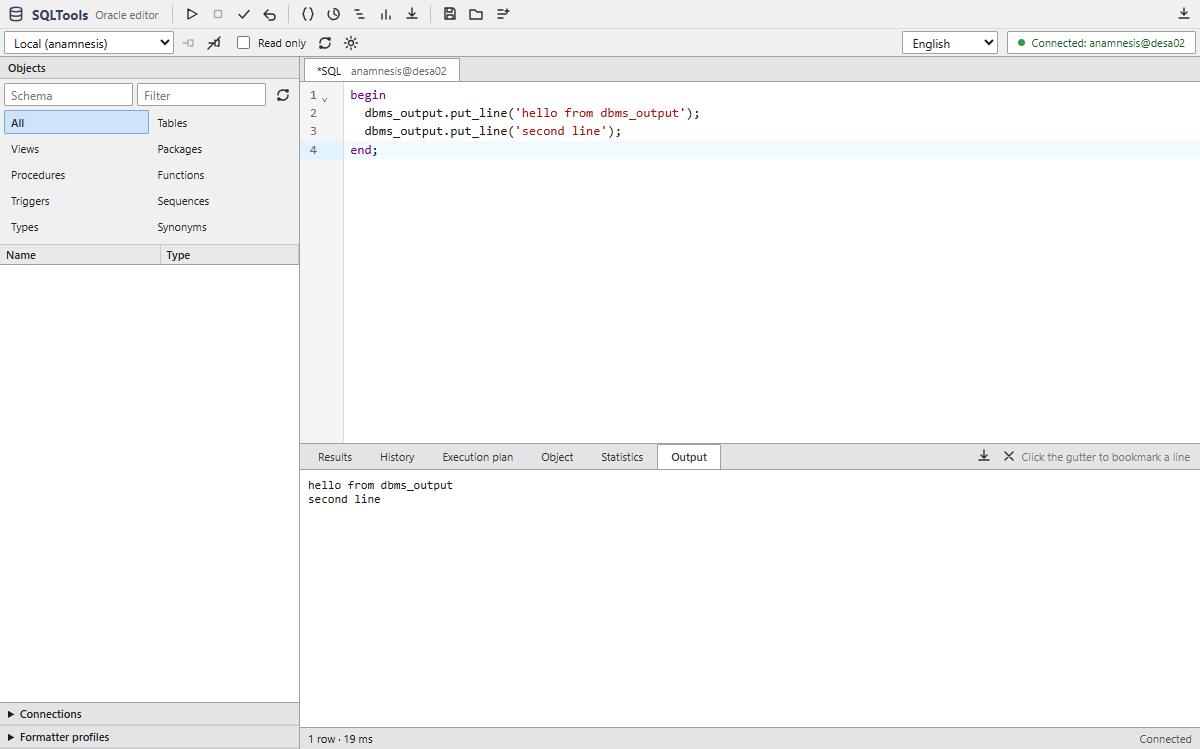
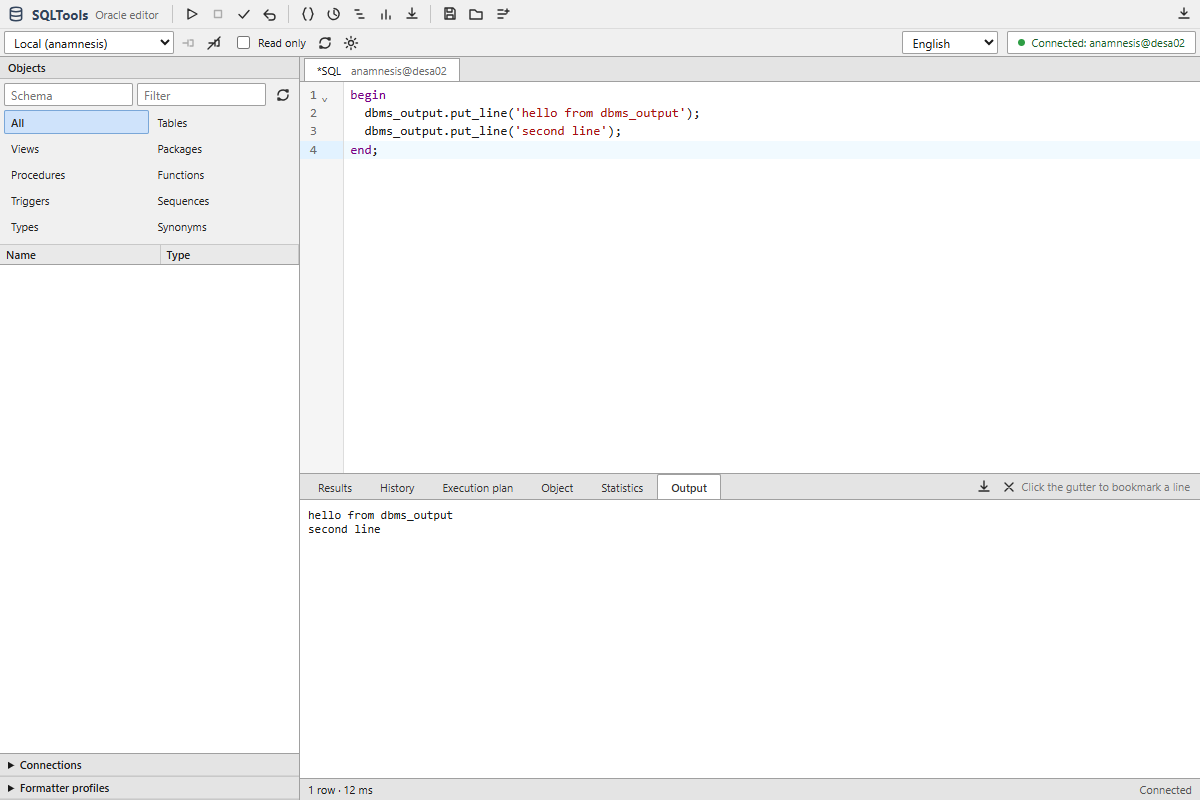
fix(p1b): drain the whole DBMS_OUTPUT buffer without failing the script

diff --git a/rust/crates/sqlt-oracle/src/session.rs b/rust/crates/sqlt-oracle/src/session.rs
@@ -149,8 +149,14 @@ impl Session {
         Ok(())
     }
 
-    /// Drains up to `max` lines with `DBMS_OUTPUT.GET_LINE` (OUT binds).
-    /// Returns an empty vector when output was not enabled.
+    /// Drains the whole `DBMS_OUTPUT` buffer with `GET_LINE` (OUT binds),
+    /// keeping at most `max` lines and appending a marker when the rest was
+    /// truncated. Returns an empty vector when output was not enabled.
+    ///
+    /// Draining is auxiliary to the statement that produced the output, so an
+    /// OCI error (for example `DBMS_OUTPUT.DISABLE` run inside the script,
+    /// which purges the buffer and rejects `GET_LINE`) ends the drain instead of
+    /// failing the script; the lines collected so far are returned.
     pub fn dbms_output_lines(&self, max: usize) -> Result<Vec<String>, OciError> {
         if !self
             .dbms_output_enabled
@@ -159,20 +165,42 @@ impl Session {
             return Ok(Vec::new());
         }
         let mut lines = Vec::new();
-        for _ in 0..max {
-            let mut stmt = self
+        let mut truncated = 0usize;
+        loop {
+            let Ok(mut stmt) = self
                 .conn
                 .statement("begin dbms_output.get_line(:1, :2); end;")
-                .build()?;
+                .build()
+            else {
+                break;
+            };
             // An OUT string bind needs a buffer; `None::<String>` is empty.
-            stmt.execute(&[&OracleType::Varchar2(32767), &None::<i32>])?;
+            if stmt
+                .execute(&[&OracleType::Varchar2(32767), &None::<i32>])
+                .is_err()
+            {
+                break;
+            }
             // Status is 1 when the buffer is drained; the line is NULL then.
-            let status: i32 = stmt.bind_value(2)?;
+            let Ok(status) = stmt.bind_value::<_, i32>(2) else {
+                break;
+            };
             if status != 0 {
                 break;
             }
-            let line: String = stmt.bind_value(1)?;
-            lines.push(line);
+            let Ok(line) = stmt.bind_value::<_, String>(1) else {
+                break;
+            };
+            if lines.len() < max {
+                lines.push(line);
+            } else {
+                truncated += 1;
+            }
+        }
+        if truncated > 0 {
+            lines.push(format!(
+                "-- {truncated} more DBMS_OUTPUT lines were truncated"
+            ));
         }
         Ok(lines)
     }

diff --git a/rust/crates/sqlt-oracle/tests/oracle_integration.rs b/rust/crates/sqlt-oracle/tests/oracle_integration.rs
@@ -493,3 +493,42 @@ fn xmltype_maps_to_text() {
         other => panic!("unexpected xmltype value: {other:?}"),
     }
 }
+
+#[test]
+fn dbms_output_disable_inside_script_is_not_fatal() {
+    let Some(spec) = spec() else { return };
+    let session = open(&spec);
+    session.enable_dbms_output().expect("enable dbms_output");
+    session
+        .execute("begin dbms_output.put_line('before disable'); dbms_output.disable; end;")
+        .expect("disable inside the block");
+    let lines = session.dbms_output_lines(10).expect("drain after disable");
+    assert!(
+        lines.is_empty() || lines == vec!["before disable".to_string()],
+        "{lines:?}"
+    );
+    assert!(session
+        .dbms_output_lines(10)
+        .expect("drain disabled buffer")
+        .is_empty());
+}
+
+#[test]
+fn dbms_output_truncates_but_drains_everything() {
+    let Some(spec) = spec() else { return };
+    let session = open(&spec);
+    session.enable_dbms_output().expect("enable dbms_output");
+    session
+        .execute("begin for i in 1..1005 loop dbms_output.put_line('line ' || i); end loop; end;")
+        .expect("put 1005 lines");
+    let lines = session.dbms_output_lines(1000).expect("drain capped");
+    assert_eq!(lines.len(), 1001, "{lines:?}");
+    assert_eq!(lines[0], "line 1");
+    assert_eq!(lines[999], "line 1000");
+    assert_eq!(lines[1000], "-- 5 more DBMS_OUTPUT lines were truncated");
+    // The remaining lines were consumed, so a second drain is empty.
+    assert!(session
+        .dbms_output_lines(10)
+        .expect("drain remainder")
+        .is_empty());
+}

diff --git a/rust/crates/sqlt-app/tests/app_integration.rs b/rust/crates/sqlt-app/tests/app_integration.rs
@@ -266,4 +266,22 @@ fn script_emits_dbms_output_lines() {
     .expect("script");
     assert_eq!(outcome.last_rows, 1);
     assert_eq!(output, vec!["from script".to_string()]);
+
+    // A script that disables DBMS_OUTPUT must not fail while draining.
+    let mut after_disable = Vec::new();
+    let outcome = run_script(
+        &session,
+        "begin dbms_output.disable; end;",
+        options,
+        0,
+        None,
+        |event| {
+            if let ScriptEvent::Output(lines) = event {
+                after_disable.extend(lines);
+            }
+        },
+    )
+    .expect("script after disable");
+    assert_eq!(outcome.last_rows, 1);
+    assert!(after_disable.is_empty(), "{after_disable:?}");
 }

diff --git a/rust/crates/sqlt-app/src/script.rs b/rust/crates/sqlt-app/src/script.rs
@@ -86,7 +86,9 @@ where
             let affected = session.execute(text).map_err(|e| e.to_string())?;
             statement_rows = affected as usize;
         }
-        let lines = session.dbms_output_lines(1000).map_err(|e| e.to_string())?;
+        // Draining output is auxiliary: never turn a successful statement into
+        // an error because the DBMS_OUTPUT buffer could not be read.
+        let lines = session.dbms_output_lines(1000).unwrap_or_default();
         if !lines.is_empty() {
             emit(ScriptEvent::Output(lines));
         }

diff --git a/docs/superpowers/plans/2026-11-16-rust-p2-app.md b/docs/superpowers/plans/2026-11-16-rust-p2-app.md
@@ -212,14 +212,20 @@
   dirty. Verified via CDP (language `en` after reload, `*SQL` after selecting
   CRLF).
 - [x] `Session.EnableDbmsOutput`: `Session::enable_dbms_output` and
-  `dbms_output_lines` drain `DBMS_OUTPUT.GET_LINE` with real OCI OUT binds
-  (`OracleType::Varchar2(32767)` for the buffer, NUMBER for the status; the
-  line is read only when the status is 0). `run_script` emits one
+  `dbms_output_lines` drain the **whole** `DBMS_OUTPUT` buffer with real OCI OUT
+  binds (`OracleType::Varchar2(32767)` for the buffer, NUMBER for the status;
+  the line is read only when the status is 0), keep at most `max` lines and
+  append `-- N more DBMS_OUTPUT lines were truncated` when the rest was
+  dropped. Draining is auxiliary, so `DBMS_OUTPUT.DISABLE` inside a script (or
+  any `GET_LINE` failure) ends the drain instead of failing the statement.
+  `run_script` emits one
   `ScriptEvent::Output(Vec<String>)` per drained batch, the Tauri channel maps
   it to `QueryEvent::Output`, and the UI appends it to a new Output panel (the
-  panel opens automatically). Verified against Oracle 12.1 by the crate test
-  (`dbms_output.put_line` x2 → two lines, buffer drained afterwards), by the app
-  integration test (script run emits `from script`) and by CDP on the real app:
+  panel opens automatically). Verified against Oracle 12.1 by the crate tests
+  (`put_line` x2 → two lines and an empty buffer; `DISABLE` inside the block is
+  not fatal; 1005 lines → 1000 kept + truncation marker, buffer consumed), by
+  the app integration test (script run emits `from script` and a later
+  `dbms_output.disable` script still succeeds) and by CDP on the real app:
   `235/150` commands, palette → Enable Dbms Output → run a PL/SQL block →
   Output tab with `hello from dbms_output` / `second line`, status `1 row · 19
   ms`. Together with XMLTYPE (which maps to `Value::Text` and is covered by
